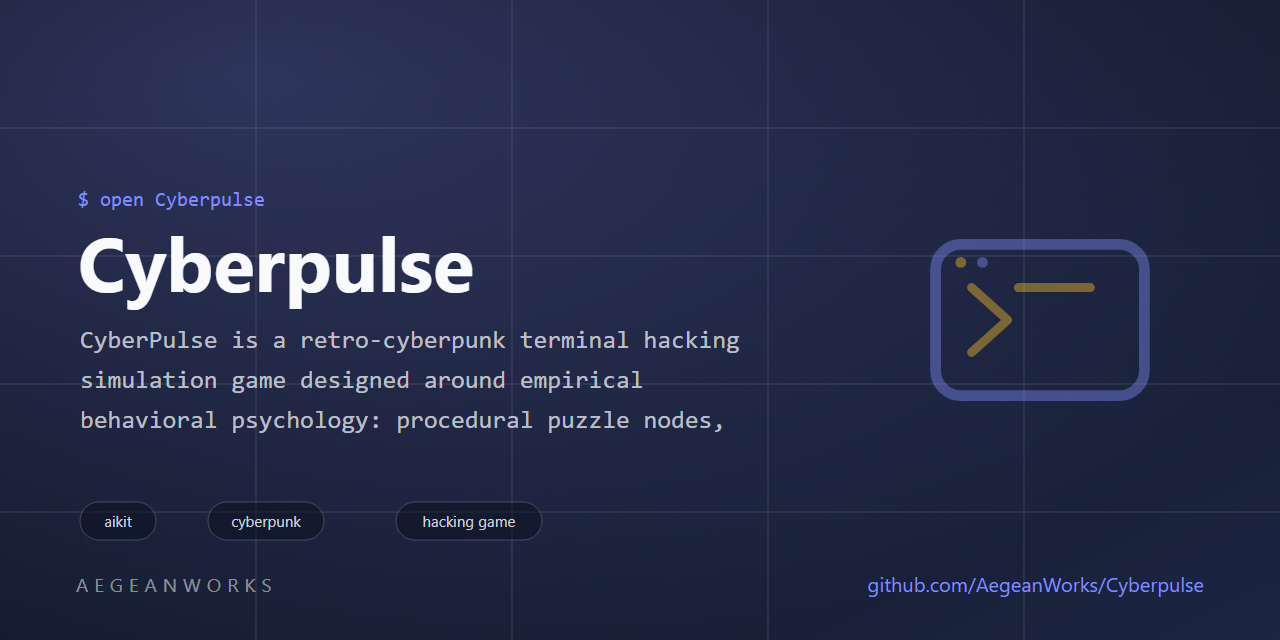
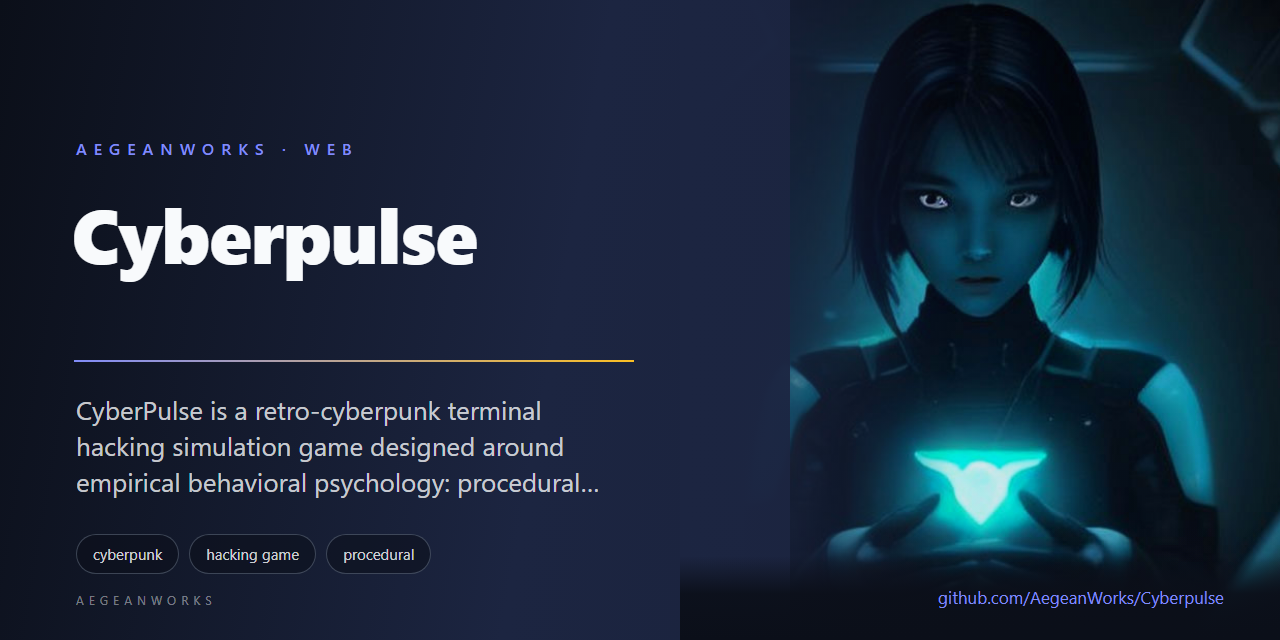
feat(brand): replace procedural marks with reviewed AI-art identities

diff --git a/README.md b/README.md
@@ -1,8 +1,8 @@
 # cyberpulse
 
 <!-- aegean:media:start -->
-<p align="center"><img src="assets/logo.svg" alt="Cyberpulse logo" width="96" height="96"></p>
-<p align="center"><img src="assets/social-preview.svg" alt="Cyberpulse social preview" width="100%"></p>
+<p align="center"><img src="assets/logo.png" alt="Cyberpulse logo" width="96" height="96"></p>
+<p align="center"><img src="assets/social-preview.png" alt="Cyberpulse social preview" width="100%"></p>
 <!-- aegean:media:end -->
 
 [![Built with AIKit](https://img.shields.io/badge/built%20with-AIKit-6f42c1)](https://github.com/AegeanWorks/AIKit)
